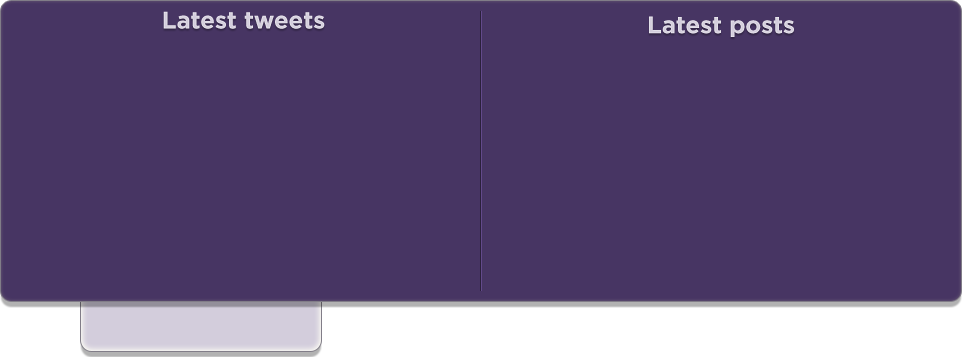
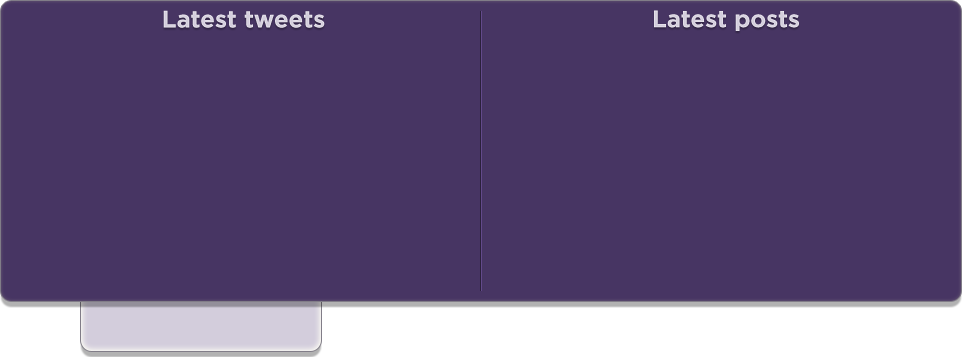
Styling footer

Changed region(s): [[0.6549, 0.0308, 0.842, 0.0924], [0.1559, 0.0308, 0.343, 0.0924]]

diff --git a/public/stylesheets/application.css b/public/stylesheets/application.css
@@ -124,3 +124,28 @@ body {
       text-indent: -9999em;
       margin-bottom: 10px;
       background-color: transparent; }
+
+#footer {
+  height: 357px;
+  width: 962px;
+  background: url(/images/footer.png);
+  margin-top: 40px; }
+  #footer #latest-tweets, #footer #latest-posts {
+    float: left;
+    width: 460px;
+    height: 280px;
+    padding-left: 20px;
+    padding-top: 20px; }
+    #footer #latest-tweets h1, #footer #latest-posts h1 {
+      text-indent: -9999em;
+      height: 30px;
+      display: block; }
+  #footer #open-source {
+    clear: both;
+    margin-left: 80px;
+    padding-left: 10px;
+    padding-top: 5px;
+    line-height: 44px;
+    font-size: 18px;
+    width: 230px;
+    text-align: center; }

diff --git a/public/stylesheets/_footer.scss b/public/stylesheets/_footer.scss
@@ -1,0 +1,31 @@
+#footer {
+  height: 357px;
+  width: 962px;
+  background: url(/images/footer.png);
+  margin-top: 40px;
+  
+  #latest-tweets, #latest-posts {
+    float: left;
+    width: 460px;
+    height: 280px;
+    padding-left: 20px;
+    padding-top: 20px;
+    
+    h1 {
+      text-indent: -9999em;
+      height: 30px;
+      display: block;
+    }
+  }
+  
+  #open-source {
+    clear: both;
+    margin-left: 80px;
+    padding-left: 10px;
+    padding-top: 5px;
+    line-height: 44px;
+    font-size: 18px;
+    width: 230px;
+    text-align: center;
+  }
+}

diff --git a/public/stylesheets/application.scss b/public/stylesheets/application.scss
@@ -11,3 +11,4 @@ body {
 
 @import "header";
 @import "home";
+@import "footer";
